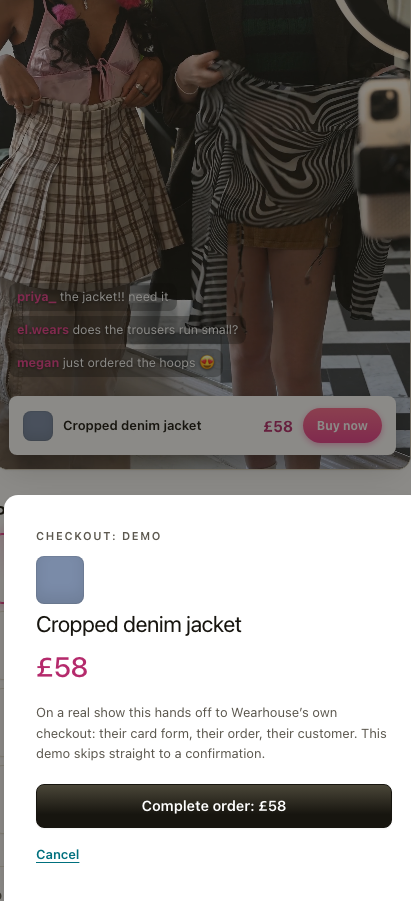
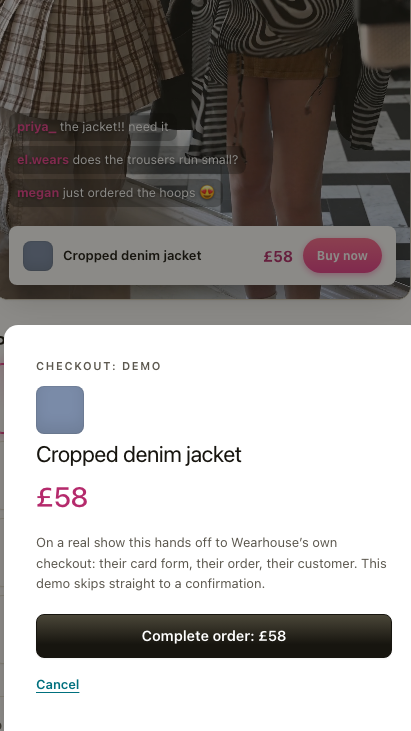
Fix "too zoomed in" hero screenshot - recrop the source, not the CSS
The object-fit: cover fix made both hero screenshots the same size,
but shop-player-checkout.png was much taller/narrower than
shop-player.png, so covering the shared box meant scaling it up and
cropping real width off both sides - looked zoomed in.

Recropped the checkout screenshot at the source instead of leaning
harder on CSS: trimmed some of the dimmed background stage above the
checkout sheet (decorative, not the point of that shot) so its own
aspect ratio (411x731) now nearly matches shop-player.png's (395x703).
The two now need almost no cropping to match, so nothing reads as
zoomed. Also corrected both images' stale width/height attributes to
their real dimensions.

diff --git a/clickclick-live/index.html b/clickclick-live/index.html
@@ -37,7 +37,7 @@
   <noscript>
     <link href="https://fonts.googleapis.com/css2?family=DM+Serif+Display:ital@0;1&family=Poppins:wght@300;400;500;600;700&display=swap" rel="stylesheet" />
   </noscript>
-  <link rel="stylesheet" href="/styles.css?v=seo7" />
+  <link rel="stylesheet" href="/styles.css?v=seo8" />
   <script type="application/ld+json">
   {
     "@context": "https://schema.org",
@@ -219,11 +219,11 @@
 
       <div class="ccl-hero-shots">
         <figure class="doc-shot">
-          <img src="/assets/product/shop-player.png" alt="What a viewer sees on their phone: the LIVE badge, a real viewer count, comments landing as they happen, and a buy-now bar that never leaves the screen" width="380" height="677" loading="eager" />
+          <img src="/assets/product/shop-player.png" alt="What a viewer sees on their phone: the LIVE badge, a real viewer count, comments landing as they happen, and a buy-now bar that never leaves the screen" width="395" height="703" loading="eager" />
           <figcaption>What a viewer sees</figcaption>
         </figure>
         <figure class="doc-shot">
-          <img src="/assets/product/shop-player-checkout.png" alt="The checkout sheet that opens when a viewer taps buy: product name, price, and a complete order button" width="420" height="836" loading="eager" />
+          <img src="/assets/product/shop-player-checkout.png" alt="The checkout sheet that opens when a viewer taps buy: product name, price, and a complete order button" width="411" height="731" loading="eager" />
           <figcaption>Tap to buy, on the spot</figcaption>
         </figure>
       </div>
